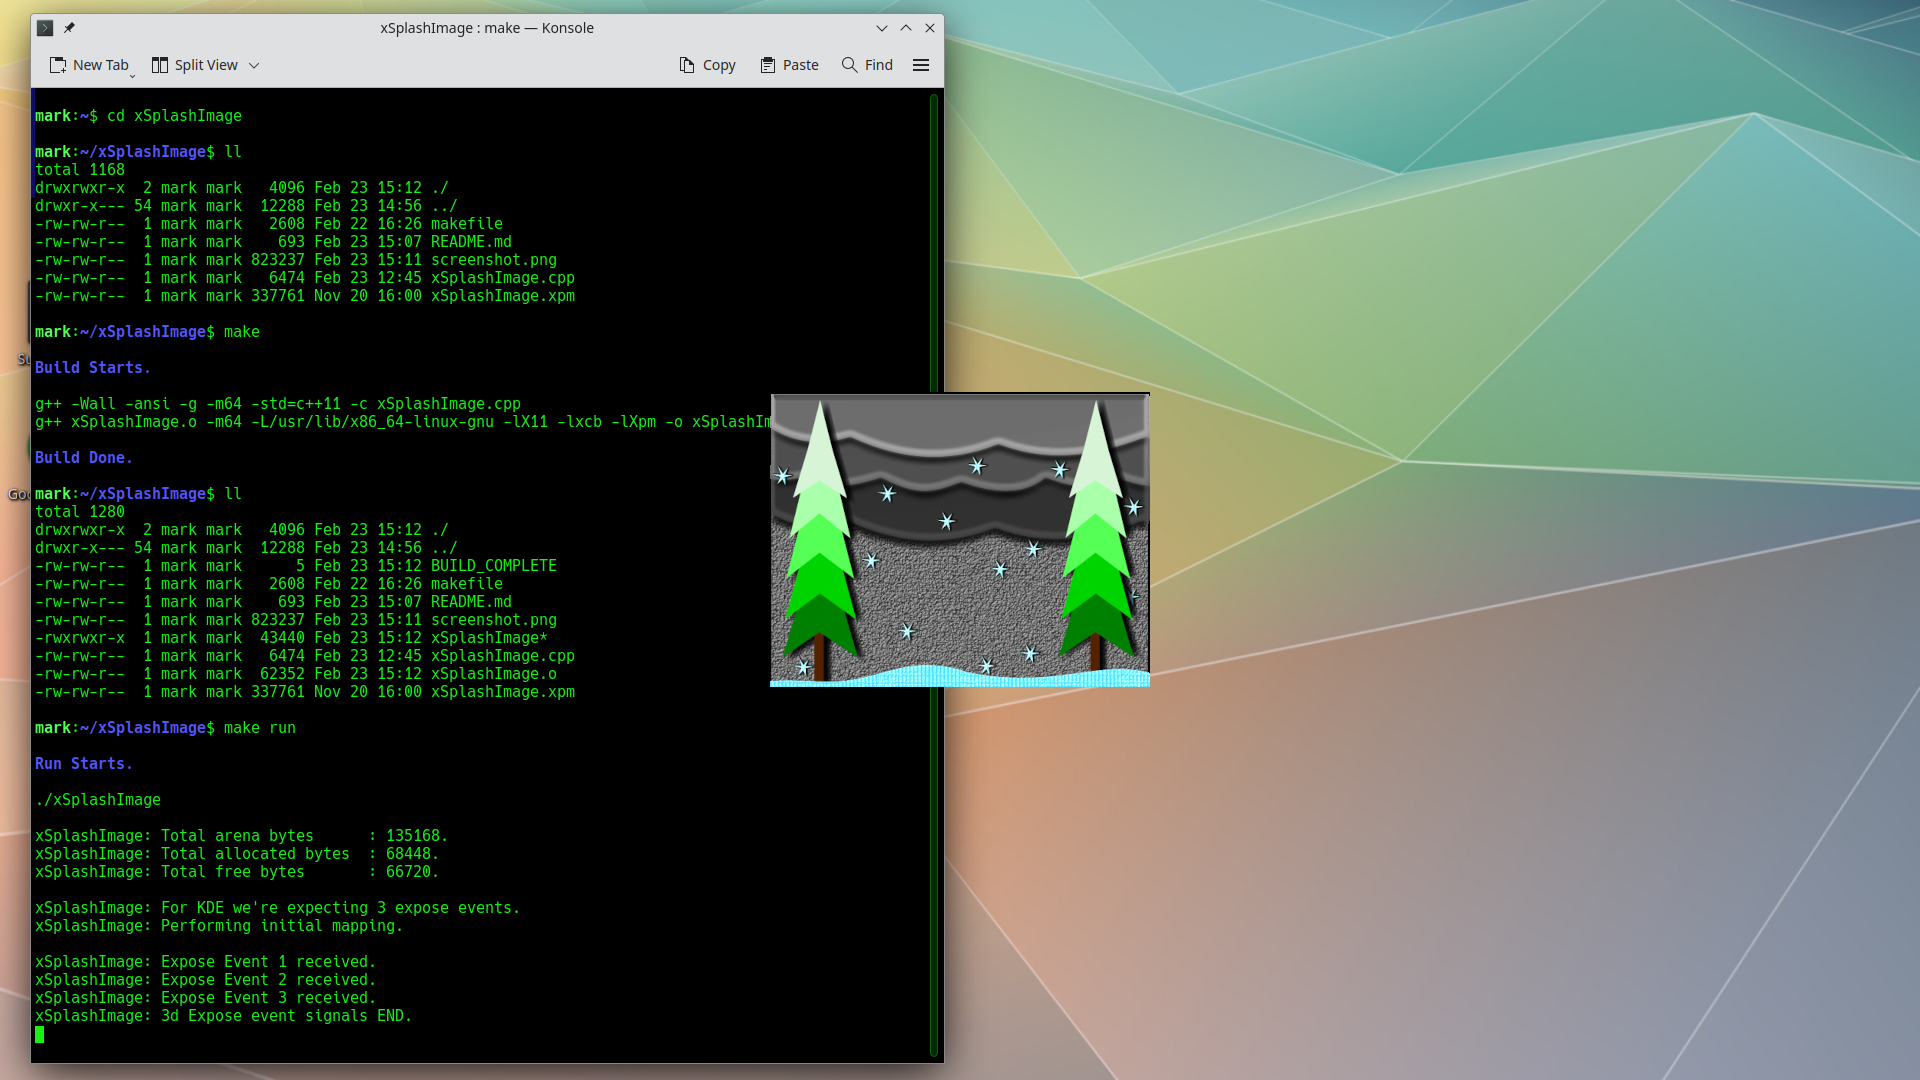
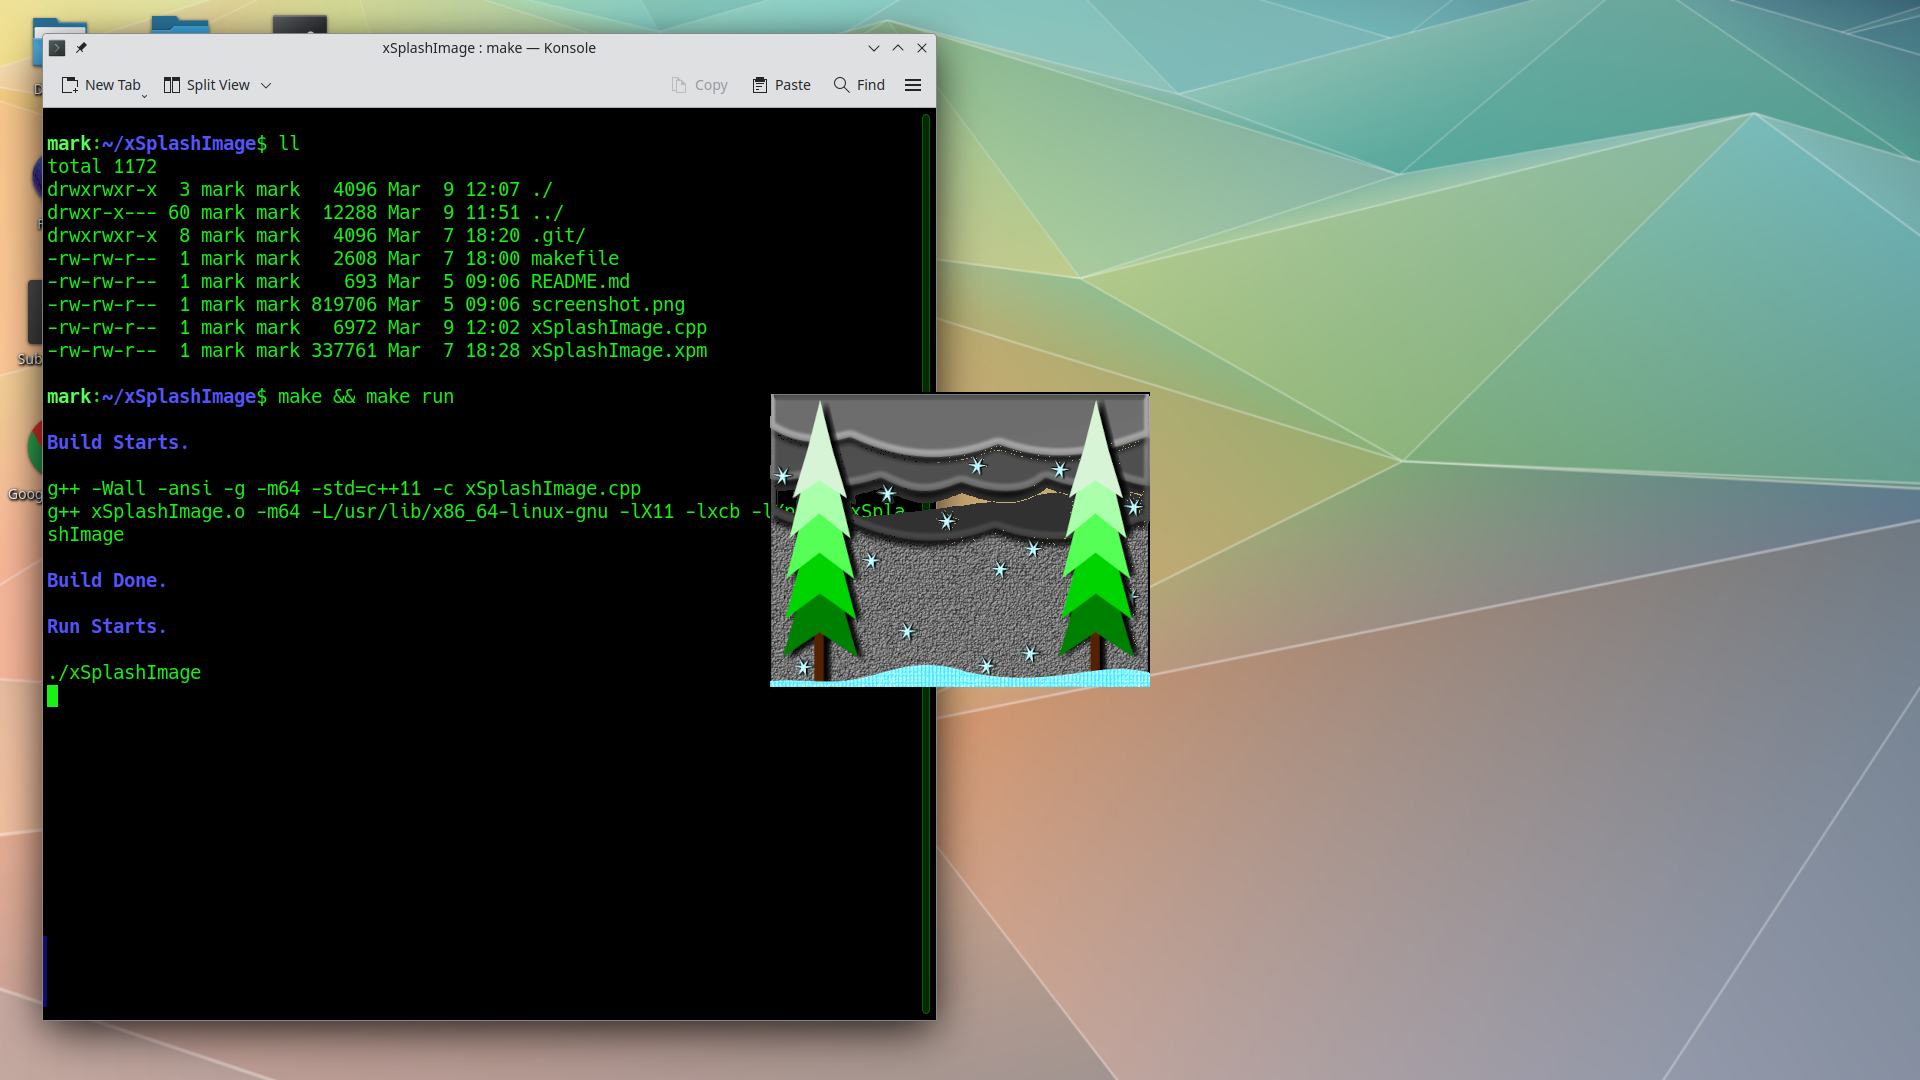
Add transparency.

Changed region(s): [[0.0, 0.0, 0.5312, 1.0]]

diff --git a/xSplashImage.cpp b/xSplashImage.cpp
@@ -3,12 +3,12 @@
  ** Main xSplashImage. Minimally create and display an x11
  ** window SplashPage from a local XPM image file.
  **/
-
 #include <cstdio>
 #include <cstdlib>
 #include <cstring>
 #include <ctype.h>
 #include <malloc.h>
+#include <string>
 #include <unistd.h>
 
 #include <X11/Xatom.h>
@@ -16,36 +16,27 @@
 #include <X11/xpm.h>
 #include <X11/Xutil.h>
 
+using namespace std;
+
 
 /** ********************************************************
  ** Module globals and consts.
  **/
 Display* mDisplay;
 
-Screen* mScreen;
 unsigned int mScreenWidth = 0;
 unsigned int mScreenHeight = 0;
 
-Window mSplashWindow;
 XImage* mSplashImage;
-XpmAttributes mSplashAttributes;
 
-bool mSplashWindowMapped = false;
-int mSplashWindowExposedCount = 0;
+Window mSplashWindow;
 
+bool isThisDesktopGnome();
+void mergeRootImageUnderSplashImage(XImage* rootImage,
+    XImage* splashImage);
 
-/** ********************************************************
- ** Memory usage helper method.
- **/
-void displayCurrentMemory() {
-    struct mallinfo2 startMI2 = mallinfo2();
-    printf("\nxSplashImage: Total arena bytes      : %li.\n",
-        startMI2.arena);
-    printf("xSplashImage: Total allocated bytes  : %li.\n",
-        startMI2.uordblks);
-    printf("xSplashImage: Total free bytes       : %li.\n",
-        startMI2.fordblks);
-}
+void debugXImage(string TAG, XImage* IMAGE);
+
 
 /** ********************************************************
  ** Module Entry.
@@ -59,35 +50,33 @@ int main(int argc, char *argv[]) {
     }
 
     // Display initial memory useage to log.
-    mScreen = DefaultScreenOfDisplay(mDisplay);
-    mScreenWidth = WidthOfScreen(mScreen);
-    mScreenHeight = HeightOfScreen(mScreen);
-
-    displayCurrentMemory();
+    mScreenWidth = WidthOfScreen(DefaultScreenOfDisplay(mDisplay));
+    mScreenHeight = HeightOfScreen(DefaultScreenOfDisplay(mDisplay));
 
     // Read XPM SplashImage from file.
-    mSplashAttributes.valuemask = 0;
-    mSplashAttributes.bitmap_format = ZPixmap;
-    mSplashAttributes.valuemask |= XpmBitmapFormat;
-    mSplashAttributes.valuemask |= XpmSize;
-    mSplashAttributes.valuemask |= XpmCharsPerPixel;
-    mSplashAttributes.valuemask |= XpmReturnPixels;
-    mSplashAttributes.valuemask |= XpmReturnAllocPixels;
-    mSplashAttributes.exactColors = False;
-    mSplashAttributes.valuemask |= XpmExactColors;
-    mSplashAttributes.closeness = 30000;
-    mSplashAttributes.valuemask |= XpmCloseness;
-    mSplashAttributes.alloc_close_colors = False;
-    mSplashAttributes.valuemask |= XpmAllocCloseColors;
-
+    XpmAttributes splashAttributes;
+    splashAttributes.valuemask = XpmSize;
     XpmReadFileToImage(mDisplay, "xSplashImage.xpm",
-        &mSplashImage, NULL, &mSplashAttributes);
+        &mSplashImage, NULL, &splashAttributes);
 
-    // Create our X11 Window to host the image.
+    // Determine where to center Splash.
+    const int CENTERED_X_POS =
+        (mScreenWidth - splashAttributes.width) / 2;
+    const int CENTERED_Y_POS =
+        (mScreenHeight - splashAttributes.height) / 2;
+
+    // Get root image under Splash & merge for transparency.
+    XImage* rootImage = XGetImage(mDisplay,
+        DefaultRootWindow(mDisplay), CENTERED_X_POS,
+        CENTERED_Y_POS, splashAttributes.width,
+        splashAttributes.height, XAllPlanes(), ZPixmap);
+    mergeRootImageUnderSplashImage(rootImage, mSplashImage);
+
+    // Create our X11 Window to host the splash image.
     mSplashWindow = XCreateSimpleWindow(mDisplay,
-        DefaultRootWindow(mDisplay), 0, 0, mSplashAttributes.width,
-        mSplashAttributes.height, 1, BlackPixel(mDisplay, 0),
-        WhitePixel(mDisplay, 0));
+        DefaultRootWindow(mDisplay), 0, 0,
+        splashAttributes.width, splashAttributes.height, 1,
+        BlackPixel(mDisplay, 0), WhitePixel(mDisplay, 0));
 
     // Set window to dock (no titlebar or close button).
     const Atom WINDOW_TYPE = XInternAtom(mDisplay,
@@ -97,95 +86,122 @@ int main(int argc, char *argv[]) {
     XChangeProperty(mDisplay, mSplashWindow, WINDOW_TYPE, XA_ATOM,
         32, PropModeReplace, (unsigned char*) &TYPE_VALUE, 1);
 
-    // Add the image to the host window.
-    XPutImage(mDisplay, mSplashWindow, XCreateGC(mDisplay,
-        mSplashWindow, 0, 0), mSplashImage, 0, 0, 0, 0,
-        mSplashAttributes.width, mSplashAttributes.height);
+    // Map, then position window for Gnome.
+    XMapWindow(mDisplay, mSplashWindow);
+    XMoveWindow(mDisplay, mSplashWindow,
+        CENTERED_X_POS, CENTERED_Y_POS);
 
-    // Show SplashImage in the window.
+    // Gnome && KDE get different X11 event counts that
+    // determine when the SplashPage has been completely DRAWN.
+    const int EXPOSED_EVENT_COUNT_NEEDED =
+        isThisDesktopGnome() ? 1 : 3;
+
+    // Show SplashImage in the window. Consume X11 events.
+    // Respond to Expose event for DRAW.
     XSelectInput(mDisplay, mSplashWindow, ExposureMask);
-    Atom mDeleteMessage = XInternAtom(mDisplay,
-        "WM_DELETE_WINDOW", False);
-    XSetWMProtocols(mDisplay, mSplashWindow,
-        &mDeleteMessage, 1);
+    int exposedEventCount = 0;
 
-    // Gnome && KDE git different X11 event counts that
-    // determine when the SplashPage has finished loading.
+    bool finalEventReceived = false;
+    while (!finalEventReceived) {
+        XEvent event;
+        XNextEvent(mDisplay, &event);
+        switch (event.type) {
+            case Expose:
+                if (++exposedEventCount >= EXPOSED_EVENT_COUNT_NEEDED) {
+                    XPutImage(mDisplay, mSplashWindow,
+                        XCreateGC(mDisplay, mSplashWindow, 0, 0),
+                        mSplashImage, 0, 0, 0, 0, splashAttributes.width,
+                        splashAttributes.height);
+                    finalEventReceived = true;
+                }
+        }
+    }
+    XFlush(mDisplay);
+
+    // Sleep with window displayed, then close.
+    sleep(5);
+
+    XpmFreeAttributes(&splashAttributes);
+    XFree(mSplashImage);
+    XFree(rootImage);
+    XUnmapWindow(mDisplay, mSplashWindow);
+    XDestroyWindow(mDisplay, mSplashWindow);
+
+    XCloseDisplay(mDisplay);
+    return false;
+}
+
+/** ********************************************************
+ ** Helper method to determine if desktop is Gnome or not.
+ **/
+bool isThisDesktopGnome() {
     char* desktop = getenv("XDG_SESSION_DESKTOP");
     for (char* eachChar = desktop; *eachChar; ++eachChar) {
         *eachChar = tolower(*eachChar);
     }
-    const bool IS_THIS_KDE = !strstr(desktop, "gnome") &&
-        !strstr(desktop, "ubuntu");
 
-    const int FINAL_EXPOSE_EVENT_COUNT =
-        IS_THIS_KDE ? 3 : 1;
-    printf("\nxSplashImage: For %s we're expecting %i "
-        "expose event%s.\n", IS_THIS_KDE ? "KDE" : "GNOME/UBUNTU",
-        FINAL_EXPOSE_EVENT_COUNT,
-        FINAL_EXPOSE_EVENT_COUNT > 1 ? "s" : "");
+    return strstr(desktop, "gnome") ||
+           strstr(desktop, "ubuntu");
+}
 
-    bool finalEventReceived = false;
-    while (!finalEventReceived) {
-        if (!mSplashWindowMapped) {
-            printf("xSplashImage: Performing initial mapping.\n\n");
-            XMapWindow(mDisplay, mSplashWindow);
-            // Gnome needs to be centered. KDE does
-            // it for you.
-            if (!IS_THIS_KDE) {
-                const int CENTERED_X_POS =
-                    (mScreenWidth - mSplashAttributes.width) / 2;
-                const int CENTERED_Y_POS =
-                    (mScreenHeight - mSplashAttributes.height) / 2;
-                XMoveWindow(mDisplay, mSplashWindow,
-                    CENTERED_X_POS, CENTERED_Y_POS);
+/** ********************************************************
+ ** Copies root screen image "under" the splashImage.
+ ** "Transparent" pixels will reveal the root window.
+ **/
+void mergeRootImageUnderSplashImage(XImage* rootImage,
+    XImage* splashImage) {
+    for (int h = 0; h < splashImage->height; h++) {
+        const int rowI = h * splashImage->width * 4;
+
+        for (int w = 0; w < splashImage->width; w++) {
+            const int byteI = rowI + (w * 4);
+
+            const unsigned char fromByte0 =
+                *((splashImage->data) + byteI + 0);
+            const unsigned char fromByte1 =
+                *((splashImage->data) + byteI + 1);
+            const unsigned char fromByte2 =
+                *((splashImage->data) + byteI + 2);
+
+            // Copy root pixel if this considered transparent.
+            if (fromByte0 == 0x30 && fromByte1 == 0x30 &&
+                fromByte2 == 0x30) {
+                *((splashImage->data) + byteI + 0) =
+                    *((rootImage->data) + byteI + 0); // Blue.
+                *((splashImage->data) + byteI + 1) =
+                    *((rootImage->data) + byteI + 1); // Green.
+                *((splashImage->data) + byteI + 2) =
+                    *((rootImage->data) + byteI + 2); // Red.
+                *((splashImage->data) + byteI + 3) =
+                    *((rootImage->data) + byteI + 3);
             }
-            mSplashWindowMapped = true;
-        }
-
-        XEvent event;
-        XNextEvent(mDisplay, &event);
-        switch (event.type) {
-            case ClientMessage:
-                if (event.xclient.data.l[0] ==
-                        (long int) mDeleteMessage) {
-                    finalEventReceived = true;
-                }
-                break;
-
-            case Expose:
-                if (event.xexpose.window != mSplashWindow) {
-                    printf("xSplashImage: 3d Expose event "
-                        "WRONG WINDOW.\n");
-                    break;
-                }
-
-                mSplashWindowExposedCount++;
-                printf("xSplashImage: Expose Event %i received.\n",
-                    mSplashWindowExposedCount);
-
-                XPutImage(mDisplay, mSplashWindow,
-                    XCreateGC(mDisplay, mSplashWindow, 0, 0),
-                    mSplashImage, 0, 0, 0, 0, mSplashAttributes.width,
-                    mSplashAttributes.height);
-
-                if (mSplashWindowExposedCount >= FINAL_EXPOSE_EVENT_COUNT) {
-                    printf("xSplashImage: 3d Expose event signals END.\n");
-                    finalEventReceived = true;
-                }
-                break;
         }
     }
+}
 
-    // Pause for user to admire SplashImage.
-    sleep(5);
+/** ********************************************************
+ ** Helper method to debug the XImage contents.
+ **/
+void debugXImage(string tag, XImage* image) {
+    printf("\ndebugXImage() width / height : %d x %d\n",
+        image->width, image->height);
+    printf("debugXImage() xoffset, format : %d, %d\n\n",
+        image->xoffset, image->format);
 
-    // Close & destroy window, display.
-    XUnmapWindow(mDisplay, mSplashWindow);
-    XDestroyWindow(mDisplay, mSplashWindow);
-    XCloseDisplay(mDisplay);
+    for (int h = 0; h < image->height; h++) {
+        const int rowI = h * image->width * 4;
 
-    // Display final memory useage to log.
-    displayCurrentMemory();
-    return false;
+        printf("debugXImage() %s : ", tag.c_str());
+        for (int w = 0; w < image->width; w++) {
+            const int byteI = rowI + (w * 4);
+            const unsigned char byte0 = *((image->data) + byteI + 0);
+            const unsigned char byte1 = *((image->data) + byteI + 1);
+            const unsigned char byte2 = *((image->data) + byteI + 2);
+            const unsigned char byte3 = *((image->data) + byteI + 3);
+
+            printf("[%02x %02x %02x %02x]  ",
+                byte0, byte1, byte2, byte3);
+        }
+        printf("\n");
+    }
 }

diff --git a/README.md b/README.md
@@ -9,6 +9,9 @@
     X11 example hack. Reads an XPM from a file, and loads it centered on
     screen in an X11 window that disappears after a brief 3 second delay.
 
+    Allows for SplashImage to be partially transparent over the
+    background.
+
 &nbsp;
 
 ## Installation.
